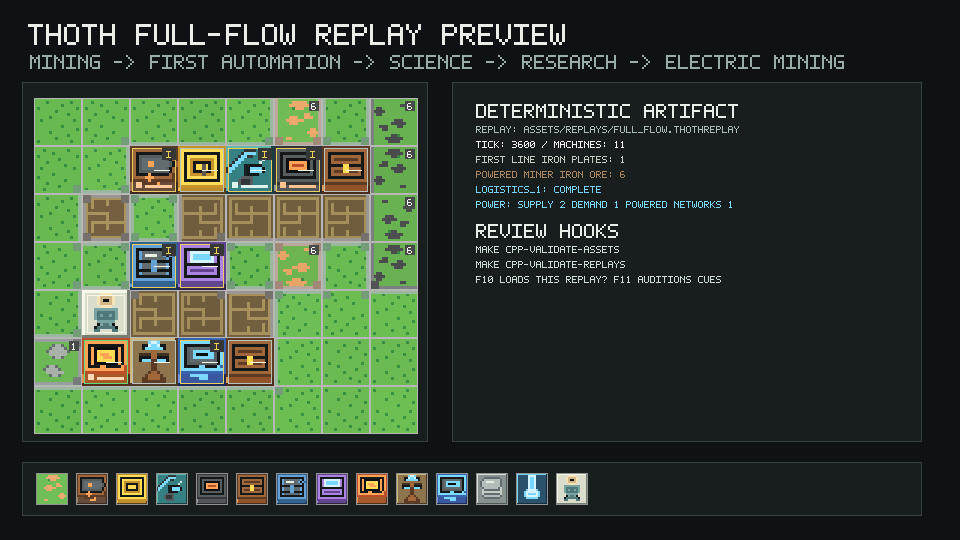
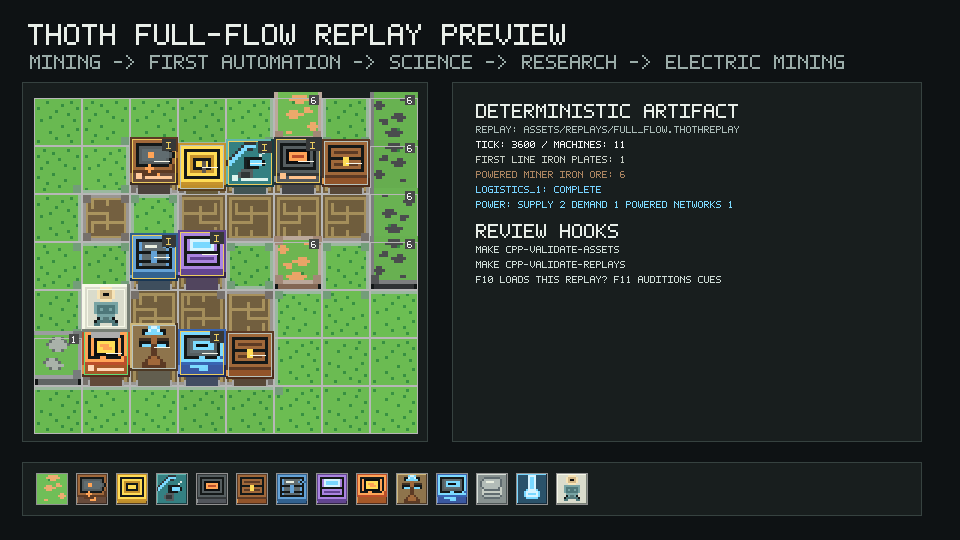
feat(app): added and edited

Changed region(s): [[0.125, 0.1481, 0.4375, 0.5333], [0.0312, 0.4148, 0.2812, 0.7407], [0.2812, 0.4148, 0.3438, 0.5333]]

diff --git a/src/app/app_preview.cpp b/src/app/app_preview.cpp
@@ -557,13 +557,15 @@ void drawPreviewGrid(
             const int py = originY + (y - minY) * tileSize;
             const auto tile = sim.world().getTile(x, y);
             const auto edges = previewTileVariantEdgesAt(sim.world(), tile.id, x, y, minX, maxX, minY, maxY);
+            const int visualHeight = previewVisualHeight(tile.id, tileSize);
             ImageDrawRectangle(&image, px, py, tileSize, tileSize, Color{18, 22, 22, 255});
-            drawPreviewSprite(image, atlasPixels, tileSprite(tile.id), px, py, scale, tileSpriteOptions(tile.id, x, y));
-            drawPreviewTileVariantEdges(image, tile.id, edges, px, py, tileSize);
+            drawPreviewTileDepthBase(image, tile.id, px, py, tileSize, visualHeight);
+            drawPreviewSprite(image, atlasPixels, tileSprite(tile.id), px, py - visualHeight, scale, tileSpriteOptions(tile.id, x, y));
+            drawPreviewTileVariantEdges(image, tile.id, edges, px, py, tileSize, visualHeight);
             drawPreviewRectLines(image, px, py, tileSize, tileSize, Color{0, 0, 0, 72});
             if (tile.data > 0) {
-                ImageDrawRectangle(&image, px + tileSize - 13, py + 3, 10, 10, Color{10, 12, 12, 190});
-                drawPreviewText(image, std::to_string(tile.data), px + tileSize - 11, py + 5, 1, RAYWHITE);
+                ImageDrawRectangle(&image, px + tileSize - 13, py + 3 - visualHeight, 10, 10, Color{10, 12, 12, 190});
+                drawPreviewText(image, std::to_string(tile.data), px + tileSize - 11, py + 5 - visualHeight, 1, RAYWHITE);
             }
         }
     }
@@ -571,13 +573,16 @@ void drawPreviewGrid(
     for (const auto& machine : sim.machines()) {
         const int px = originX + (machine.x - minX) * tileSize;
         const int py = originY + (machine.y - minY) * tileSize;
-        drawPreviewSprite(image, atlasPixels, machineSprite(machine.kind), px, py, scale);
-        drawPreviewMachineActivityOverlay(image, machine, sim.tick(), px, py, tileSize);
-        drawPreviewBeltMotionOverlay(image, machine, sim.tick(), px, py, tileSize);
-        drawPreviewRectLines(image, px + 2, py + 2, tileSize - 4, tileSize - 4, statusColor(machine.status));
+        const int visualHeight = previewMachineVisualHeight(machine.kind, tileSize);
+        const int visualY = py - visualHeight;
+        drawPreviewMachineDepthBase(image, machine.kind, px, py, tileSize, visualHeight);
+        drawPreviewSprite(image, atlasPixels, machineSprite(machine.kind), px, visualY, scale);
+        drawPreviewMachineActivityOverlay(image, machine, sim.tick(), px, visualY, tileSize);
+        drawPreviewBeltMotionOverlay(image, machine, sim.tick(), px, visualY, tileSize);
+        drawPreviewRectLines(image, px + 2, visualY + 2, tileSize - 4, tileSize - 4, statusColor(machine.status));
 
         const int cx = px + tileSize / 2;
-        const int cy = py + tileSize / 2;
+        const int cy = visualY + tileSize / 2;
         ImageDrawLine(
             &image,
             cx,
@@ -588,15 +593,23 @@ void drawPreviewGrid(
 
         if (previewMachineIssue(machine.status)) {
             const auto badge = previewMachineIssueBadgeText(machine.status);
-            ImageDrawRectangle(&image, px + tileSize - 16, py + 2, 14, 12, Color{12, 14, 14, 210});
-            drawPreviewText(image, badge, px + tileSize - 12, py + 5, 1, statusColor(machine.status));
+            ImageDrawRectangle(&image, px + tileSize - 16, visualY + 2, 14, 12, Color{12, 14, 14, 210});
+            drawPreviewText(image, badge, px + tileSize - 12, visualY + 5, 1, statusColor(machine.status));
         }
     }
 
     const int playerX = originX + (sim.player().x - minX) * tileSize;
     const int playerY = originY + (sim.player().y - minY) * tileSize;
-    drawPreviewSprite(image, atlasPixels, SpriteId::Player, playerX, playerY, scale);
-    drawPreviewRectLines(image, playerX + 5, playerY + 5, tileSize - 10, tileSize - 10, Color{246, 248, 232, 255});
+    const int playerHeight = std::max(1, (4 * tileSize) / kTilePixels);
+    ImageDrawRectangle(
+        &image,
+        playerX + std::max(1, tileSize / 5),
+        playerY + tileSize - std::max(1, tileSize / 8),
+        tileSize - std::max(2, (tileSize * 2) / 5),
+        std::max(1, tileSize / 8),
+        Color{0, 0, 0, 82});
+    drawPreviewSprite(image, atlasPixels, SpriteId::Player, playerX, playerY - playerHeight, scale);
+    drawPreviewRectLines(image, playerX + 5, playerY + 5 - playerHeight, tileSize - 10, tileSize - 10, Color{246, 248, 232, 255});
 }
 
 void drawPreviewSpriteStrip(Image& image, const Color* atlasPixels, int x, int y)